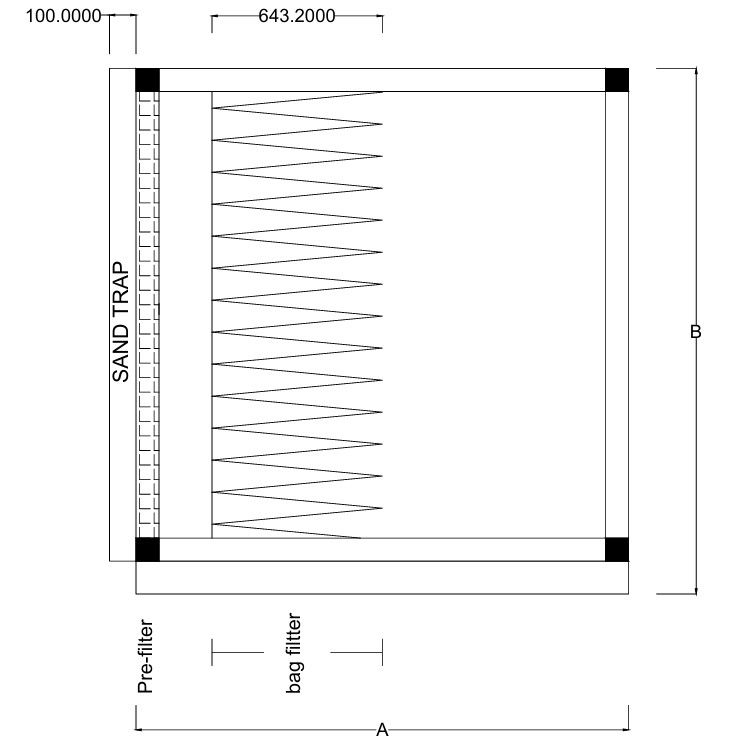
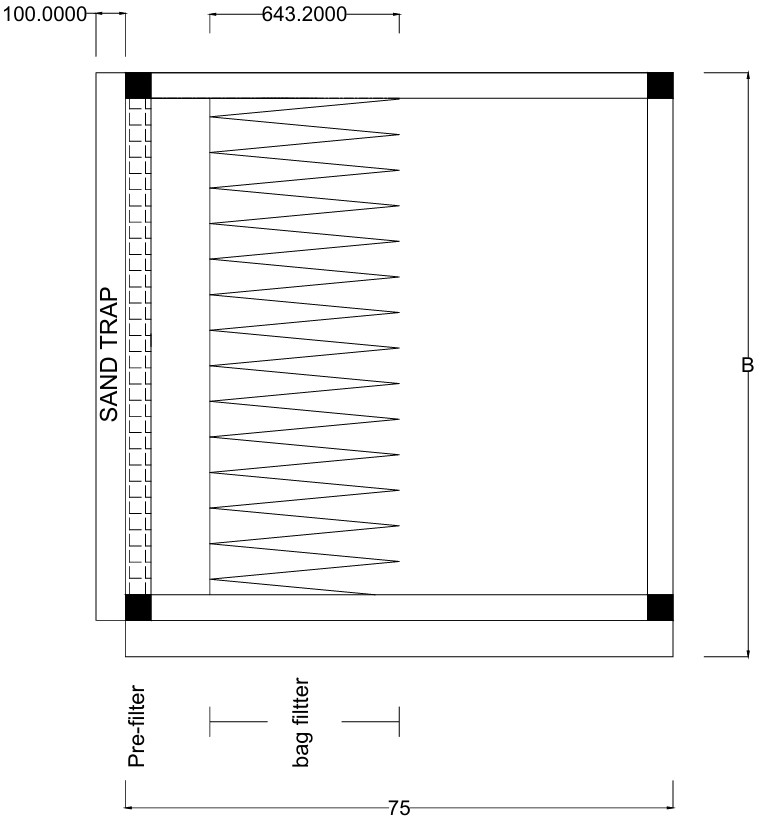
updated dimensions with module filter

diff --git a/src/Pages/FlowSearch.jsx b/src/Pages/FlowSearch.jsx
@@ -3604,7 +3604,7 @@ console.log('working point not loaded', error);
                                     <div className="grid grid-cols-1 lg:grid-cols-2 gap-6">
                                       {/* Image */}
                                       {variant.image && (
-                                        <div className="flex justify-center">
+                                        <div className="flex flex-col items-center gap-4">
                                           <ProgressiveImage 
                                             src={resolveUiImage(variant.image)} 
                                             alt={isNbcDidwSeries ? nbcDidwSectionTitle : variant.name}
@@ -3612,6 +3612,20 @@ console.log('working point not loaded', error);
                                             loading="lazy"
                                             decoding="async"
                                           />
+                                          {variantIndex === 0 && isNbcDidwSeries && getFilterModuleOption().image && selected?.model && (
+                                            <div className="w-full">
+                                              <div className="text-sm font-medium text-[#64748B] mb-2 text-center">Filter Module</div>
+                                              <div className="flex justify-center">
+                                                <ProgressiveImage
+                                                  src={resolveUiImage(getFilterModuleOption().image)}
+                                                  alt="Filter Module"
+                                                  className="max-w-full h-auto max-h-100 object-contain"
+                                                  loading="lazy"
+                                                  decoding="async"
+                                                />
+                                              </div>
+                                            </div>
+                                          )}
                                         </div>
                                       )}
                                       
@@ -3669,7 +3683,7 @@ console.log('working point not loaded', error);
                           {dimensionsData.image && (
                             <div className="bg-white rounded-2xl p-6 shadow-sm border border-[#E5EDFF]">
                               <h3 className="text-xl font-semibold text-[#1E3A8A] mb-4">{dimensionsDisplayName}</h3>
-                              <div className="flex justify-center">
+                              <div className="flex flex-col items-center gap-4">
                                 <ProgressiveImage 
                                   src={resolveUiImage(dimensionsData.image)} 
                                   alt={dimensionsDisplayName}
@@ -3677,6 +3691,20 @@ console.log('working point not loaded', error);
                                   loading="lazy"
                                   decoding="async"
                                 />
+                                {isNbcDidwSeries && getFilterModuleOption().image && selected?.model && (
+                                  <div className="w-full">
+                                    <div className="text-sm font-medium text-[#64748B] mb-2 text-center">Filter Module</div>
+                                    <div className="flex justify-center">
+                                      <ProgressiveImage
+                                        src={resolveUiImage(getFilterModuleOption().image)}
+                                        alt="Filter Module"
+                                        className="max-w-full h-auto max-h-80 object-contain"
+                                        loading="lazy"
+                                        decoding="async"
+                                      />
+                                    </div>
+                                  </div>
+                                )}
                               </div>
                             </div>
                           )}
@@ -3732,25 +3760,11 @@ console.log('working point not loaded', error);
                               </div>
                             </div>
                           )}
+                          
                         </div>
                       );
                     })()}
 
-                    {isNbcDidwSeries && getFilterModuleOption().image && selected?.model && (
-                      <div className="bg-white rounded-2xl p-6 shadow-sm border border-[#E5EDFF]">
-                        <h3 className="text-xl font-semibold text-[#1E3A8A] mb-4">Filter Module</h3>
-                        <div className="flex justify-center">
-                          <ProgressiveImage
-                            src={resolveUiImage(getFilterModuleOption().image)}
-                            alt="Filter Module"
-                            className="max-w-full h-auto max-h-96 object-contain"
-                            loading="lazy"
-                            decoding="async"
-                          />
-                        </div>
-                      </div>
-                    )}
-                    
                     {/* Hidden Charts for PDF Export - render only when modal is open */}
                     {showPdfModal && (
                     <div style={{ position: 'absolute', left: '-10000px', top: 0, width: '900px', height: '500px', opacity: 0, pointerEvents: 'none' }}>
